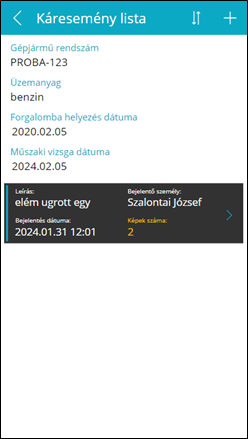
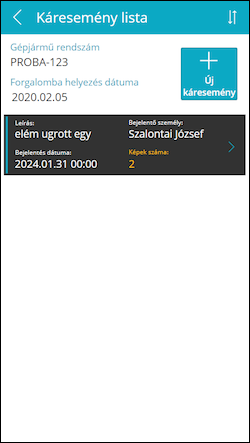
Updated doc with latest changes

diff --git a/docs/chapters/login/05_StartPage.md b/docs/chapters/login/05_StartPage.md
@@ -11,6 +11,9 @@ Amikor betölt az applikáció, a következő kezdő képernyő látható:
 
 ![login](static/images/LoginPage.png)
 
-A gépjárművek listájában az adott felhasználóhoz rendelt összes gépjármű rendszáma látható, ez az esetek 99%-ában 1 db járművet jelent és ez rögtön ki is van választva. Innen 2 listát lehet elérni:
--	**Óraállások**: az adott gépjárműhöz már korábban rögzített km-óraállások
--	**Káresemények**: az adott gépjárműhöz már korábban rögzített káresemények
+A *Választott gépjármű* felirat alatt, a lenyiló listában az adott felhasználóhoz rendelt összes gépjármű rendszáma látható. Ez az esetek 99%-ában 1 db járművet jelent és ez rögtön ki is van választva. 
+
+A gombokkal a következő funkciók érhetők el:
+-   **+ Új óraállás**: rögtön az óraállás bejelentő oldalra navigál
+-	**Óraállás lista**: az adott gépjárműhöz már korábban rögzített km-óraállásokat mutatja
+-	**Káresemények**: az adott gépjárműhöz már korábban rögzített káreseményeket mutatja

diff --git a/docs/chapters/mileagerecords/05_MileageRecordsList.md b/docs/chapters/mileagerecords/05_MileageRecordsList.md
@@ -17,12 +17,15 @@ Az **Óraállás lista** oldalon a gépjármű főbb adatai láthatóak valamint
 
 ![mileage record view](static/images/MileageRecordView.png)
 
+Új óraállást diktálni az **Új óraállás** gombra kattintva nyílik lehetőség:
+
+![mileage record view](static/images/NewMileageRecordButton.png)
+
 A **toolbar**on a következő elemek láthatóak (balról jobbra haladva):
 
 ![mileage records list toolbar](static/images/MileageRecordsListToolbar.png)
 
 -	Vissza a [Kezdőoldal](../login/05_StartPage.md)ra
 -	(Cím)
--	[Beállítások](20_ReminderSettings.md)
 -	Rendezés leolvasás dátuma szerint növekvő/csökkenő sorrendben
--	[Új óraállás](15_NewMileageRecord.md) felvétele
+-	[Beállítások](20_ReminderSettings.md)

diff --git a/docs/chapters/accidents/05_AccidentsList.md b/docs/chapters/accidents/05_AccidentsList.md
@@ -17,6 +17,10 @@ Az Káresemény lista oldal hasonló az Óraállás listához, ezen is látható
 
 ![accident view](static/images/AccidentView.png)
 
+Új káreseményt felvételére az **Új káresemény** gombra kattintva nyílik lehetőség:
+
+![mileage record view](static/images/NewAccidentButton.png)
+
 A **toolbar**on a következő elemek láthatóak (balról jobbra haladva):
 
 ![accidents list toolbar](static/images/AccidentsListToolbar.png)
@@ -24,4 +28,3 @@ A **toolbar**on a következő elemek láthatóak (balról jobbra haladva):
 -	Vissza a [Kezdőoldal](../login/05_StartPage.md)ra
 -	(Cím)
 -	Rendezés káresemény dátuma szerint növekvő/csökkenő sorrendben
--	[Új káresemény](15_NewAccident.md) felvétele
